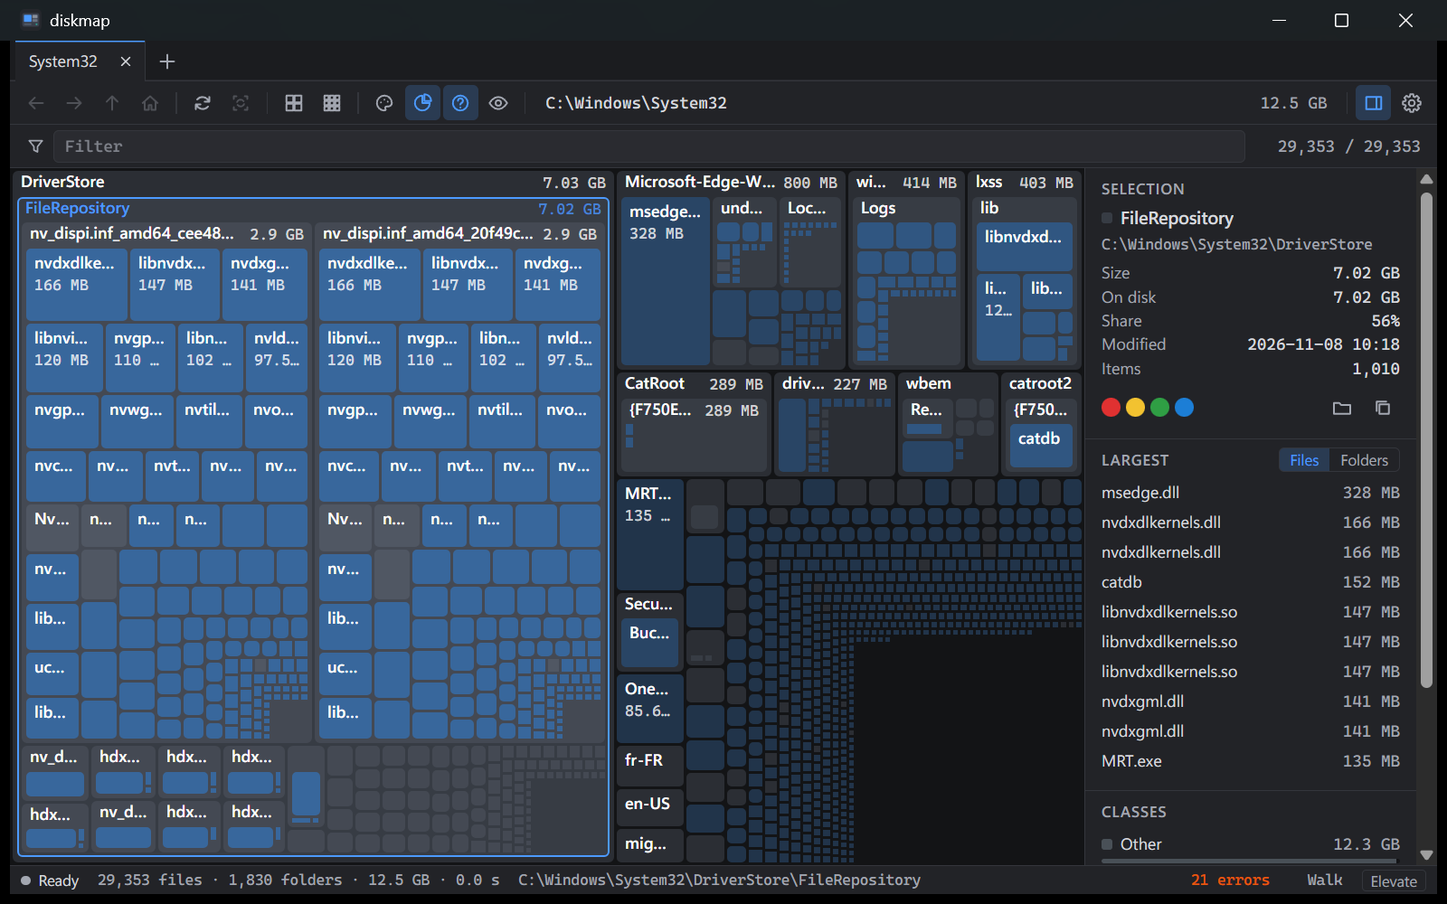
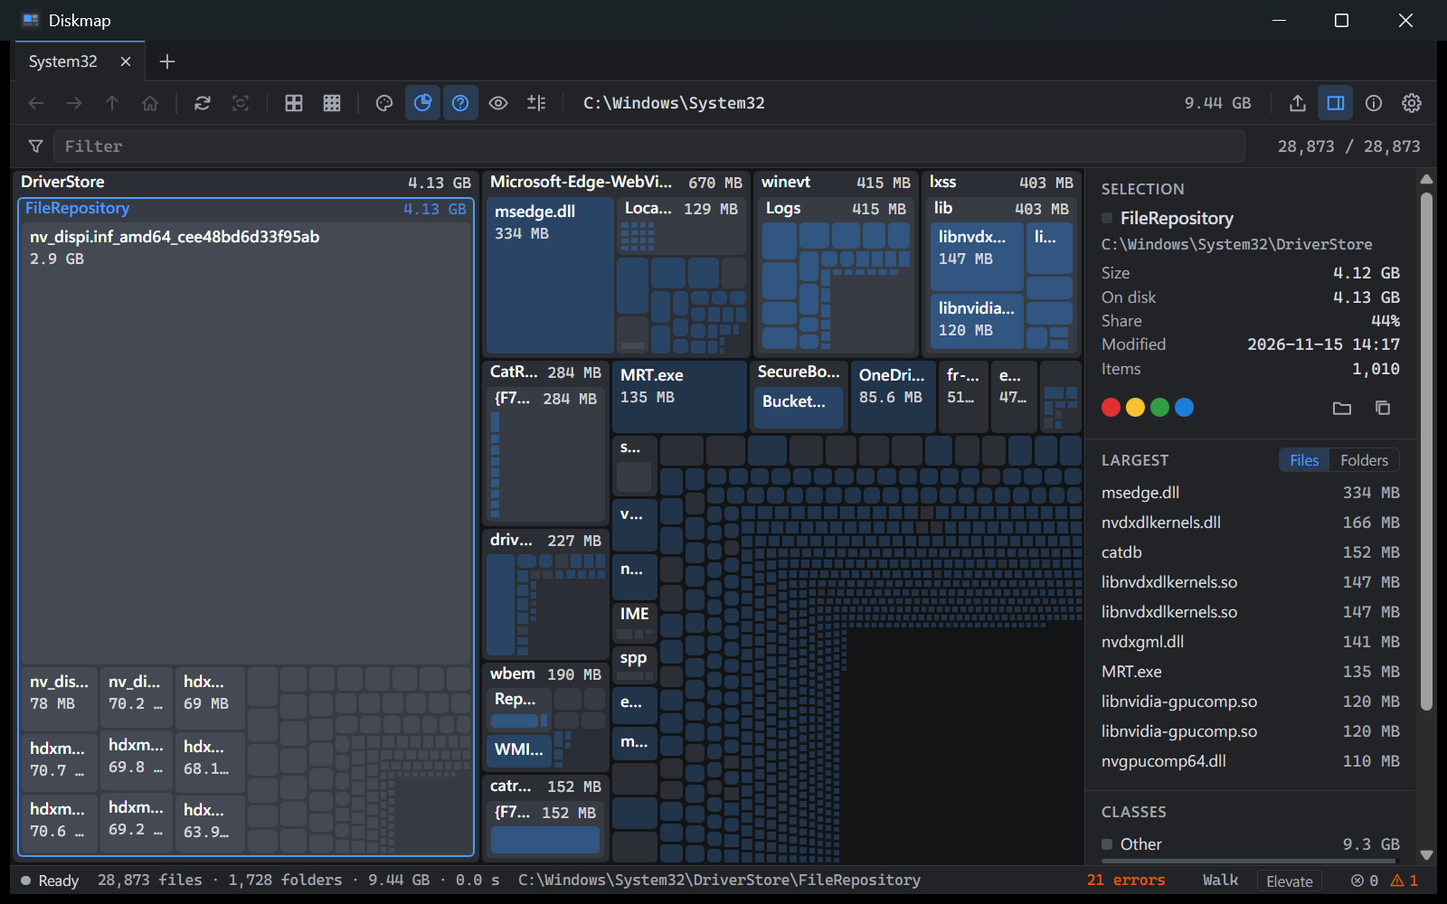
Update README and docs for 0.2.0
New screenshots of the map, dashboard and compare mode; features, usage, shortcuts and filter examples; desktop modules, export, log and config keys in architecture; roadmap of shipped and open points.

diff --git a/README.md b/README.md
@@ -11,18 +11,29 @@ Navigation inspired by SpaceSniffer.
 - Squarified treemap of a folder or drive, drawn on a canvas with nested folders.
 - Parallel directory walk, or a raw NTFS MFT scan when run as administrator.
 - Live updates from a file-system watcher, with an optional highlight of recent changes.
-- Filter language: name masks, size, age, attributes, folders, file classes and colour tags.
+- Snapshots and compare mode: tiles coloured by change (new, grown, shrunk), deleted bytes as hatched tiles, a Changes list.
+- Dashboard start screen: drive usage with 7 and 30 day change, a trend chart per drive, the latest movers.
+- Periodic scans from Windows Task Scheduler, with a timeline per root and a toast with the top movers.
+- Filter language: name masks, size, age, attributes, folders, file classes, colour tags and change status.
+- File colours by accent, file class or age.
 - Colour tags (4), file classes with editable colours and extensions.
-- Tabs, back and forward over zooms, breadcrumb, free and unknown space of the volume.
-- Side panel with the largest files and folders and bytes per class.
+- Pinned folders, tabs, back and forward over zooms, breadcrumb, free and unknown space of the volume.
+- Side panel with the selection, changes, the largest files and folders and bytes per class.
+- CSV and JSON export of the view, the selection and the top files and folders.
+- Output panel with the application log.
+- Installer or portable exe, auto updates, winget package.
 - Five themes, UI scale, detail level 1 to 12.
 - `diskmap-bench` command line tool to time and compare the scan backends.
+
+| Dashboard | Compare mode |
+| --- | --- |
+| ![Dashboard](docs/dashboard.png) | ![Compare mode](docs/compare.png) |
 
 ## Install
 
 Requires Windows 10 or 11 and the WebView2 runtime (part of Windows 11 and current Windows 10). Each [release](https://github.com/paul-charp/Disk-Map/releases) has two downloads; the installer is also on winget once the package is accepted (`winget install PaulCharp.Diskmap`):
 
-| Asset | Kind | Settings | Data (snapshots, log) |
+| Asset | Kind | Settings | Data (snapshots, timeline, log) |
 | --- | --- | --- | --- |
 | `diskmap-vX.Y.Z-windows-x64-setup.exe` | Installer, per user, no admin | `%APPDATA%\diskmap\diskmap.toml` | `%LOCALAPPDATA%\diskmap\data\` |
 | `diskmap-vX.Y.Z-windows-x64-portable.exe` | Portable | `diskmap.toml` next to the exe | `data\` next to the exe |
@@ -30,39 +41,24 @@ Requires Windows 10 or 11 and the WebView2 runtime (part of Windows 11 and curre
 - Installer: installs to `%LOCALAPPDATA%\diskmap` by default (data in its `data` subfolder), adds a Start menu shortcut and, from a checkbox on the last page, a desktop shortcut. It downloads WebView2 only if it is missing. Uninstall from Windows Settings, Apps; settings and data are kept unless "Delete the application data" is ticked.
 - Portable: put the exe in any folder and run it; settings and data stay in that folder. Any copy of the exe the installer did not put in place runs portable.
 - `DISKMAP_CONFIG` overrides the settings path in both modes.
-- Updates: installed builds check at startup (Settings, About, Auto check) and show an `Update x.y.z` chip in the status bar; Install downloads the signed installer, runs it in passive mode and restarts. Portable builds only check and link to the release page. Updates stay off in builds without an updater public key; see [docs/distribution.md](docs/distribution.md).
+- Updates: installed builds check at startup (Settings, About, Auto check) and show an `Update x.y.z` chip in the status bar; Install downloads the signed installer, runs it in passive mode and restarts. Portable builds only check and link to the release page. See [docs/distribution.md](docs/distribution.md).
 
-Release downloads contain `diskmap.exe` only; `diskmap-bench` is a development tool built from source.
-
-## Build
-
-Requires Rust 1.90 or newer.
-
-```powershell
-cargo build --release -p diskmap
-```
-
-The executable is `target\release\diskmap.exe`. The installer needs the Tauri CLI (it fetches NSIS itself):
-
-```powershell
-cargo install tauri-cli --version "^2" --locked
-cd crates\desktop
-cargo tauri build --bundles nsis --no-sign
-```
-
-`--no-sign` skips the updater signature; without it the build needs `TAURI_SIGNING_PRIVATE_KEY` once a public key is configured (see [docs/distribution.md](docs/distribution.md)).
-
-The installer is written to `target\release\bundle\nsis\diskmap_<version>_x64-setup.exe`.
+The exes are not code-signed, so SmartScreen may warn on first run (More info, Run anyway). `diskmap-bench` is a development tool built from source, not part of the release.
 
 ## Usage
 
-- Start screen: type a path (several separated by `;`), pick a drive or a recent scan, or browse. A dashboard shows drive usage with history, a trend chart, the latest movers and the schedule state. Folders dropped on the window open in tabs. Paths on the command line open one tab each.
+- Start screen: type a path (several separated by `;`), pick a drive, a pinned folder or a recent scan, or browse. Folders dropped on the window open in tabs. Paths on the command line open one tab each.
+- Dashboard: drive cards with used space, 7 and 30 day change and a sparkline; the Trend chart of used space per drive; Movers from the latest periodic scans, which open a tab or Compare against the latest snapshot.
 - Click a folder or file to select it; the map digs in place to show its contents.
-- Double click a folder to zoom to it. Back and Forward step through zooms only; Up and Root zoom out.
-- Right click for Open, Reveal, Copy path, tags and Zoom.
+- Double click to zoom to the folder (the parent for a file). Back and Forward step through zooms only; Up and Root zoom out.
+- Right click: Open, Open in terminal, Reveal, Copy path, Properties, Scan in new tab, Pin, Recycle, tags, Export CSV and Zoom.
+- Toolbar: rescan, rescan view, detail, file colours (Accent, Class, Age), free and unknown space, Watch, Compare, Export, side panel, About and Settings.
 - Tabs: one scan per tab, Ctrl+N for a new tab, middle click to close.
 - Live updates: the Watch toggle (Ctrl+L) follows changes after a scan. Highlight changes is in Settings, Scan.
-- MFT scan: start `diskmap.exe` as administrator, or use the Elevate button in the status bar, which relaunches with the open tabs. The backend (Settings, Scan) is Auto, MFT or Walk; the status bar shows which one ran.
+- Snapshots: a full snapshot is saved after every full scan (Settings, Scan: Auto snapshot, Keep snapshots), or with Compare, Save now. Compare lists the snapshots of the root; Settings, Snapshots manages them all (Keep, Compare, Reveal, Delete).
+- Periodic scans: Settings, Schedule registers a daily or weekly task `diskmap\Snapshot` that runs `diskmap.exe --snapshot <root>... --quiet`, optionally elevated for the MFT backend. Each run adds a timeline point and a report. See [docs/snapshots.md](docs/snapshots.md).
+- MFT scan: start `diskmap.exe` as administrator, or use Elevate in the status bar or on the start screen, which relaunches with the open tabs. The backend (Settings, Scan) is Auto, MFT or Walk; the status bar shows which one ran.
+- Output (Ctrl+`): the application log with a level filter, Copy and Clear; the status bar shows error and warning counts. Also written to `diskmap.log` in the data folder.
 
 ## Keyboard shortcuts
 
@@ -78,11 +74,12 @@ The installer is written to `target\release\bundle\nsis\diskmap_<version>_x64-se
 | Ctrl+Up | Up |
 | Ctrl+Home | Root |
 | Ctrl++ / Ctrl+- | Detail |
-| Ctrl+T | Class colours |
+| Ctrl+T | File colours |
 | Ctrl+F | Free space |
 | Ctrl+U | Unknown space |
 | Ctrl+L | Watch |
 | Ctrl+B | Side panel |
+| Ctrl+` | Output |
 | Ctrl+1 to Ctrl+4 | Tag hovered or selected item |
 | Ctrl+0 | Clear tags |
 
@@ -103,21 +100,42 @@ Conditions are separated by `;`. A leading `|` negates a condition. See [docs/fi
 | `:class:Video;size>1gb` | Videos larger than 1 GB |
 | `:tag:red,blue` | Files tagged red or blue |
 | `\src;*.rs;\|\target` | Rust files inside `src`, outside `target` |
+| `is:new;is:grown` | In compare mode: new or grown files |
+| `delta:>1GB` | In compare mode: files that grew by more than 1 GB |
 
-## Build from source and test
+## Build
+
+Requires Rust 1.90 or newer.
 
 ```powershell
-cargo build --workspace
+cargo build --release -p diskmap
+```
+
+The executable is `target\release\diskmap.exe`. The installer needs the Tauri CLI (it fetches NSIS itself):
+
+```powershell
+cargo install tauri-cli --version "^2" --locked
+cd crates\desktop
+cargo tauri build --bundles nsis --no-sign
+```
+
+`--no-sign` skips the updater signature; without it the build needs `TAURI_SIGNING_PRIVATE_KEY` (see [docs/distribution.md](docs/distribution.md)).
+
+The installer is written to `target\release\bundle\nsis\diskmap_<version>_x64-setup.exe`.
+
+## Test
+
+```powershell
 cargo test --workspace
 cargo fmt --all -- --check
 cargo clippy --workspace --all-targets -- -D warnings
 ```
 
-The front end in `crates/desktop/ui` is plain HTML, CSS and ES modules; there is no Node build step. See [docs/architecture.md](docs/architecture.md) and [docs/scanning.md](docs/scanning.md).
+The front end in `crates/desktop/ui` is plain HTML, CSS and ES modules; there is no Node build step. See [docs/architecture.md](docs/architecture.md), [docs/scanning.md](docs/scanning.md) and [docs/snapshots.md](docs/snapshots.md).
 
 ## Contributing
 
-Work happens on `develop` and `feature/*` branches; `main` holds releases. See [docs/branching.md](docs/branching.md); release assets, updater keys and winget in [docs/distribution.md](docs/distribution.md).
+Work happens on `develop` and `feature/*` branches; `main` holds releases. See [docs/branching.md](docs/branching.md); release assets, updater keys and winget in [docs/distribution.md](docs/distribution.md). Planned work: [docs/roadmap.md](docs/roadmap.md).
 
 ## Licence
 

diff --git a/docs/roadmap.md b/docs/roadmap.md
@@ -1,103 +1,36 @@
 # Roadmap
 
-Planned work after 0.1.0. Each point is one `feature/<name>` branch cut from `develop` (see `branching.md`).
-Points in wave 2 depend on wave 1 branches and start after those merge.
+Each point is one `feature/<name>` branch cut from `develop` (see `branching.md`).
 
-## Wave 1
+## Shipped in 0.2.0
 
-| Branch | Point |
-| --- | --- |
-| `feature/storage-paths` | Installed vs portable data locations |
-| `feature/snapshot-core` | Snapshot format, timeline summary, diff (core) |
-| `feature/context-menu` | New context menu items |
-| `feature/pins` | Pinned folders |
-| `feature/exports` | CSV and JSON exports |
-| `feature/age-colour` | Colour tiles by file age |
-| `feature/about` | About section, GitHub link |
-| `feature/log-console` | In-app log of errors |
+Two waves of branches after 0.1.0, all merged:
 
-## Wave 2
-
-| Branch | Point | Needs |
+| Branch | Point | Doc |
 | --- | --- | --- |
-| `feature/compare-mode` | Snapshot compare on the map | snapshot-core |
-| `feature/periodic-scans` | Headless snapshot, scheduler, report | snapshot-core, storage-paths |
-| `feature/dashboard` | Home page dashboard | pins, periodic-scans |
-| `feature/installer` | NSIS installer next to the portable build | storage-paths |
-| `feature/updater` | Auto updater | installer, about |
-| `feature/winget` | Winget manifest in the release workflow | installer |
+| `feature/storage-paths`, `feature/portable-detection` | Installed and portable data locations | [architecture.md](architecture.md#storage-paths) |
+| `feature/snapshot-core` | Snapshot format, timeline point, diff | [snapshots.md](snapshots.md) |
+| `feature/context-menu` | Open in terminal, Properties, Recycle, Scan in new tab | README |
+| `feature/pins` | Pinned folders | README |
+| `feature/exports` | CSV and JSON exports | [architecture.md](architecture.md#export) |
+| `feature/age-colour` | File colours by age | [architecture.md](architecture.md#paint-list) |
+| `feature/about` | About section, GitHub link | README |
+| `feature/log-console` | Output panel and `diskmap.log` | [architecture.md](architecture.md#log) |
+| `feature/compare-mode`, `feature/snapshot-manager` | Snapshots, compare mode, snapshot manager | [snapshots.md](snapshots.md) |
+| `feature/periodic-scans` | Headless snapshot, Task Scheduler, reports | [snapshots.md](snapshots.md) |
+| `feature/dashboard` | Dashboard start screen | [architecture.md](architecture.md#start-screen) |
+| `feature/installer` | NSIS installer next to the portable exe | [distribution.md](distribution.md) |
+| `feature/updater` | Auto updater with signed `latest.json` | [distribution.md](distribution.md#updater) |
+| `feature/winget` | Winget package `PaulCharp.Diskmap` | [distribution.md](distribution.md#winget) |
 
-## Storage paths
+## Open
 
-- Installed: the installer records its folder in `HKCU\Software\diskmap\InstallDir`; the exe in that folder keeps settings in `%APPDATA%\diskmap\diskmap.toml`; snapshots, timeline and logs in `%LOCALAPPDATA%\diskmap\data\`.
-- Portable: any other copy of the exe. Everything stays next to the exe.
-- `DISKMAP_CONFIG` still overrides the config path.
-
-## Snapshots and timeline
-
-Measured on a synthetic tree of 1M nodes (`feature/snapshot-core`, no compression): a full snapshot costs 28.6 bytes per node
-with mtime only, 38.6 with all three times. A system drive of 1.5M nodes is about 45 MB, so daily full snapshots still cost
-over 15 GB per year. A timeline point is about 33 bytes per folder kept. There are two tiers:
-
-- Full snapshot: the whole tree, for detailed diffs and compare mode. Keep the last few per root plus manual ones.
-- Timeline point: folders above a size threshold or depth with size and file count. 1k to 10k entries, 30 to 330 KB.
-  Daily for a year is 10 to 120 MB. Thresholds to tune on a real drive. Retention: daily for 90 days, then weekly, then monthly.
-
-Core modules (no I/O beyond byte buffers): snapshot format, tree to timeline point, diff (grown, shrunk, new, deleted, rolled up to folders).
-
-## Compare mode
-
-- Tile colour by size delta. Deleted items as ghost tiles in a virtual Deleted node, like Free and Unknown.
-- Tooltip shows old and new size. Side panel lists top growers and shrinkers.
-- Filters `is:new`, `is:deleted`, `delta:>1GB`.
-
-## Periodic scans
-
-- Headless mode: `diskmap.exe --snapshot C:\ --quiet` scans, writes a timeline point (and optionally a full snapshot), exits.
-- Scheduled through Windows Task Scheduler, set up from Settings, daily or weekly, optionally elevated for MFT.
-- Report: a toast with the top movers, linking to the dashboard.
-
-## Dashboard
-
-Home page: drive cards with usage, file system, MFT badge, sparkline and 7 or 30 day delta; top movers opening compare mode;
-pinned, recent with date and delta, snapshots; trend chart per drive on a canvas; slots for update notice, elevation and scheduler status.
-
-## Pins
-
-`pins` list in the config. Shown on the home page, toggled from the context menu, optionally included in periodic scans.
-
-## Context menu
-
-Keep the in-app menu. Items: Open, Open in terminal, Reveal, Copy path, Properties (native dialog), Recycle, Scan in new tab, Pin, tags, Zoom.
-
-## Exports
-
-CSV and JSON of the current view, the selection subtree with a depth limit, the top lists, and later diff results.
-The headless mode reuses the same code with `--export`.
-
-## Age colour
-
-A colour mode next to class colours, by `mtime`: a ramp from recent to old taken from theme data, and a highlight for untouched files.
-The `age` filter already exists.
-
-## About
-
-Settings section with version, GitHub link, license, data folder (with Open), and later Check for updates. An info icon button opens it.
-
-## Log console
-
-- Backend ring buffer of about 1000 entries (level, time, source, message), fed by command errors, scan and watcher failures.
-- Mirrored to `diskmap.log` in the data folder, size capped.
-- Front end errors (`onerror`, `unhandledrejection`) forwarded to the backend.
-- Status bar badge with the error count opens a bottom Output panel with level filter, Copy and Clear.
-
-## Install, update, distribution
-
-- Installer: Tauri bundler, NSIS, per-user without admin, Start menu shortcut, optional desktop shortcut, uninstaller that can keep data.
-  Releases ship `diskmap-<tag>-windows-x64-setup.exe` and `diskmap-<tag>-windows-x64-portable.exe`.
-- Updater: `tauri-plugin-updater`, signed `latest.json` on GitHub Releases (key in a repository secret).
-  Installed builds install and restart; portable builds only check and link to the release.
-  Done; setup in `docs/distribution.md`.
-- Winget: `wingetcreate` in `release.yml` after the first installer release (user scope, nullsoft).
-  Done: `PaulCharp.Diskmap`, templates in `winget/manifests/`; first submission by hand (`docs/distribution.md`).
-- Code signing: none at first; consider SignPath for open source later.
+| Point | Notes |
+| --- | --- |
+| Timeline thresholds | Tune `min_fraction` and `max_depth` of timeline points on a real drive (sizes in [snapshots.md](snapshots.md)). |
+| Headless full snapshot | `--snapshot` writes a timeline point only; an option to also save a full snapshot for compare. |
+| Toast action | Clicking the report toast opens the dashboard. |
+| Dashboard snapshots | List of stored snapshots on the start screen; today they are in Settings, Snapshots. |
+| Headless export | `--export` reusing the export code; export of diff results. |
+| Untouched files | Highlight of files not accessed for a long time in the Age colour mode. |
+| Code signing | Authenticode for the exe and installer, e.g. SignPath for open source ([distribution.md](distribution.md#code-signing)). |

diff --git a/docs/architecture.md b/docs/architecture.md
@@ -4,10 +4,29 @@
 
 | Crate | Role |
 | --- | --- |
-| `crates/core` (`diskmap-core`) | Arena `Tree`, squarified layout, filter grammar and evaluation, colour tags, file classes, snapshot and timeline formats, diff (`docs/snapshots.md`). No I/O. |
+| `crates/core` (`diskmap-core`) | Arena `Tree`, squarified layout, filter grammar and evaluation, colour tags, file classes, age buckets, snapshot and timeline formats, diff, compare, retention, reports, task XML (`docs/snapshots.md`), CSV and JSON export, log ring. No I/O. |
 | `crates/scan` (`diskmap-scan`) | Walk and MFT scan backends, `TreeBuilder`, `ReadDirectoryChangesW` watcher, `LiveUpdater`, volume and drive info. Windows only. |
 | `crates/bench` (`diskmap-bench`) | Command line tool: `scan`, `compare`, `watch`. |
 | `crates/desktop` (`diskmap`) | Tauri 2 app: sessions, config, paint list encoder, commands. Front end in `ui/`. |
+
+### Desktop modules
+
+| Module | Role |
+| --- | --- |
+| `main.rs`, `args.rs` | Startup, command line paths and test switches, headless `--snapshot` dispatch |
+| `commands.rs` | Tauri commands; `build.rs` lists them, `capabilities/main.json` allows them |
+| `state.rs`, `scan.rs`, `session.rs` | Shared state, scan worker, per-tab session (navigation, selection, tags, filter, statistics) |
+| `paint.rs`, `marks.rs` | Paint list encoder, change highlight |
+| `watch.rs` | Live updates |
+| `config.rs`, `paths.rs`, `appearance.rs` | Settings file, installed or portable locations, window frame and zoom |
+| `snapstore.rs`, `snapcmds.rs`, `compare.rs` | Full snapshots on disk, their commands, compare mode |
+| `timeline.rs`, `headless.rs`, `scheduler.rs`, `toast.rs` | Timeline points and reports, headless runs, Task Scheduler, toast |
+| `dashboard.rs` | The `dashboard` command |
+| `update.rs` | Updater ([distribution.md](distribution.md)) |
+| `log.rs` | Application log and `diskmap.log` |
+| `elevate.rs`, `shell.rs`, `fmt.rs` | Relaunch as administrator, Explorer integration, size and date text |
+
+The front end (`ui/js`) has one module per part: `app.js` (tab state and actions), `api.js` (command wrappers), `map.js` and `paintlist.js` (map canvas), `toolbar.js`, `statusbar.js`, `side.js`, `start.js` and `chart.js` (dashboard), `settings.js` and its sections, `output.js`, `menu.js`, `flags.js` (test switches).
 
 ## Data flow
 
@@ -90,6 +109,14 @@ The result is per-node allocated and logical sizes, the match count and the fold
 - A kernel buffer overflow marks the session stale; the status bar shows a Stale button that rescans.
 - Change highlight (`marks.rs`): changed nodes are remembered for 2 s. Painted items get weight 255 for the changed node and 110 for painted ancestors; shrinks and removals set the warning bit; a removed node is marked on its nearest surviving ancestor. The front end fades the highlight over 1.5 s. It is only encoded when `highlight_changes` is on.
 
+## Export
+
+`export` writes rows of a tab as CSV or JSON (`diskmap_core::export`): the view root's subtree, the selection's subtree, or the top files or folders of the side panel. Rows carry path, kind, allocated and logical size, file count for folders, modification time and tag, and honour the active filter. CSV has a header line, CRLF line ends and a UTF-8 BOM. A save dialog proposes `diskmap-<root>-<date>.<ext>`.
+
+## Log
+
+`log.rs` keeps a ring of the last 1000 entries (level, time, source, message) fed by command errors, scan and watcher failures, config errors and front end errors (`onerror`, `unhandledrejection`). Entries are sent to the front end (Output panel, status bar counts) and appended to `diskmap.log` in the data folder, rotated to `diskmap.log.1` at 1 MB.
+
 ## Config file
 
 `diskmap.toml` at the location below, or the path in `DISKMAP_CONFIG`. It is loaded at start, written when settings change and after scans (recent list). Missing or invalid files give the defaults; values are clamped on load.
@@ -112,7 +139,9 @@ The result is per-node allocated and logical sizes, the match count and the fold
 | `check_updates` | true | Check for a new release at startup |
 | `auto_snapshot` | true | Save a full snapshot after every completed full scan |
 | `keep_snapshots` | 5 | Automatic snapshots kept per root (1 to 100); manual ones are never pruned |
-| `recent` | empty | Last 8 scanned paths with sizes |
+| `recent` | empty | Last 8 scanned paths with sizes and scan times |
+| `pins` | empty | Pinned folders |
+| `schedule` | off | Scheduled snapshots: `enabled`, `every` (`daily`, `weekly`), `day`, `time` (`HH:MM`), `roots`, `elevated` ([snapshots.md](snapshots.md)) |
 | `classes` | six defaults | File classes: name, `#rrggbb`, extensions |
 
 The environment variable `DISKMAP_PERF` names a file that receives one timing line per layout.

diff --git a/AGENTS.md b/AGENTS.md
@@ -7,7 +7,7 @@ diskmap: Windows disk-usage treemap. Rust workspace, Tauri 2 desktop app, plain 
 - `crates/core`: tree, squarified layout, filter grammar (`src/filter`), tags, file classes, snapshot and timeline formats, diff, retention, report, schedule task XML. No I/O.
 - `crates/scan`: walk backend (`walk.rs`), MFT backend (`mft.rs`, `mft/record.rs`), watcher (`watch.rs`), live updater (`live.rs`), volume info.
 - `crates/bench`: `diskmap-bench` CLI (`scan`, `compare`, `watch`). Development tool only: excluded from `default-members`, so plain `cargo build` skips it; build it with `-p diskmap-bench` when needed; never ship it in release archives.
-- `crates/desktop`: the app (binary `diskmap`). Backend in `src/` (`commands.rs` Tauri commands, `session.rs`, `state.rs`, `paint.rs`, `config.rs`, `watch.rs`, `timeline.rs` timeline store and reports, `headless.rs` `--snapshot` runs, `scheduler.rs` Task Scheduler, `toast.rs`, `update.rs` updater, `snapstore.rs` snapshot store, `compare.rs` compare mode). Front end in `ui/` (`index.html`, `style.css`, `js/*.js`, no build step). `build.rs` lists the commands; a new command goes in `build.rs`, `main.rs`, `ui/js/api.js` and `capabilities/main.json` (`allow-<name>`), with its generated `permissions/autogenerated/<name>.toml` committed. Updates: `src/update.rs`, `ui/js/update.js`. Winget templates: `winget/manifests/`. `windows/hooks.nsh`: NSIS installer hooks.
+- `crates/desktop`: the app (binary `diskmap`). Backend in `src/` (`commands.rs` Tauri commands, `session.rs`, `state.rs`, `paint.rs`, `config.rs`, `watch.rs`, `timeline.rs` timeline store and reports, `headless.rs` `--snapshot` runs, `scheduler.rs` Task Scheduler, `toast.rs`, `update.rs` updater, `snapstore.rs` snapshot store, `compare.rs` compare mode; full list in `docs/architecture.md`, Desktop modules). Front end in `ui/` (`index.html`, `style.css`, `js/*.js`, no build step). `build.rs` lists the commands; a new command goes in `build.rs`, `main.rs`, `ui/js/api.js` and `capabilities/main.json` (`allow-<name>`), with its generated `permissions/autogenerated/<name>.toml` committed. Updates: `src/update.rs`, `ui/js/update.js`. Winget templates: `winget/manifests/`. `windows/hooks.nsh`: NSIS installer hooks.
 - `assets/icon/`: icon source and renders; `crates/desktop/icons/` holds copies.
 - `tools/shots/`: window capture scripts. `docs/`: architecture, scanning, filters, branching, distribution (installer, updater keys, winget).
 - `.local/` holds local working files (e.g. `.local/space_sniffer/`, a third-party reference app). Do not read `space_sniffer`, edit it or commit anything in `.local/`.

diff --git a/docs/filters.md b/docs/filters.md
@@ -14,7 +14,8 @@ body       = mask | folder | comparison | tags | attrs | class
 
 - Name masks, tag conditions and class conditions are selectors: a file must match at least one positive selector (when there is any).
 - A negated selector (`|mask`, `|:class:...`, `|:tag:...`) excludes files that match it.
-- Size, age and attribute conditions must all hold.
+- Size, age, attribute and `delta:` conditions must all hold.
+- `is:` conditions match any of the listed statuses ([Compare](#compare)).
 - Folder masks: a file must be inside a folder matching every positive folder mask, and inside none matching a negated one.
 
 ## Name masks
